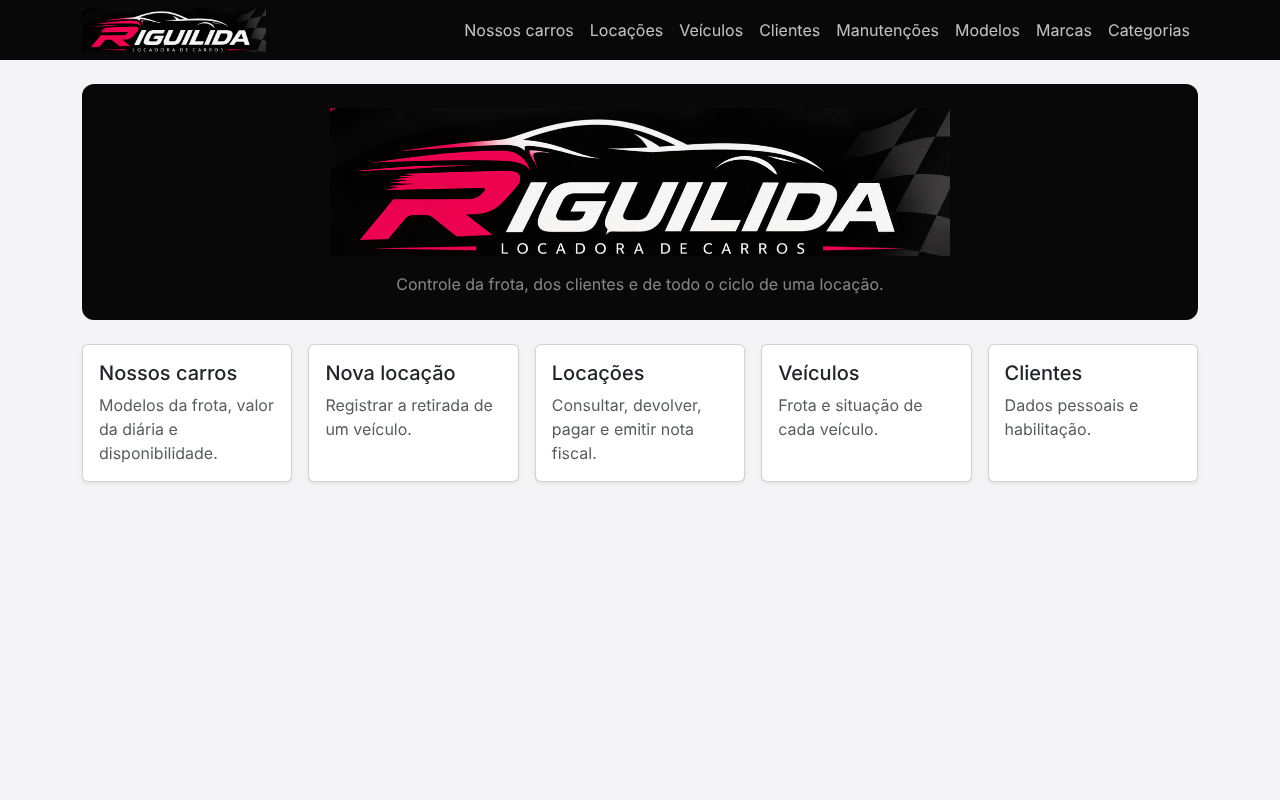
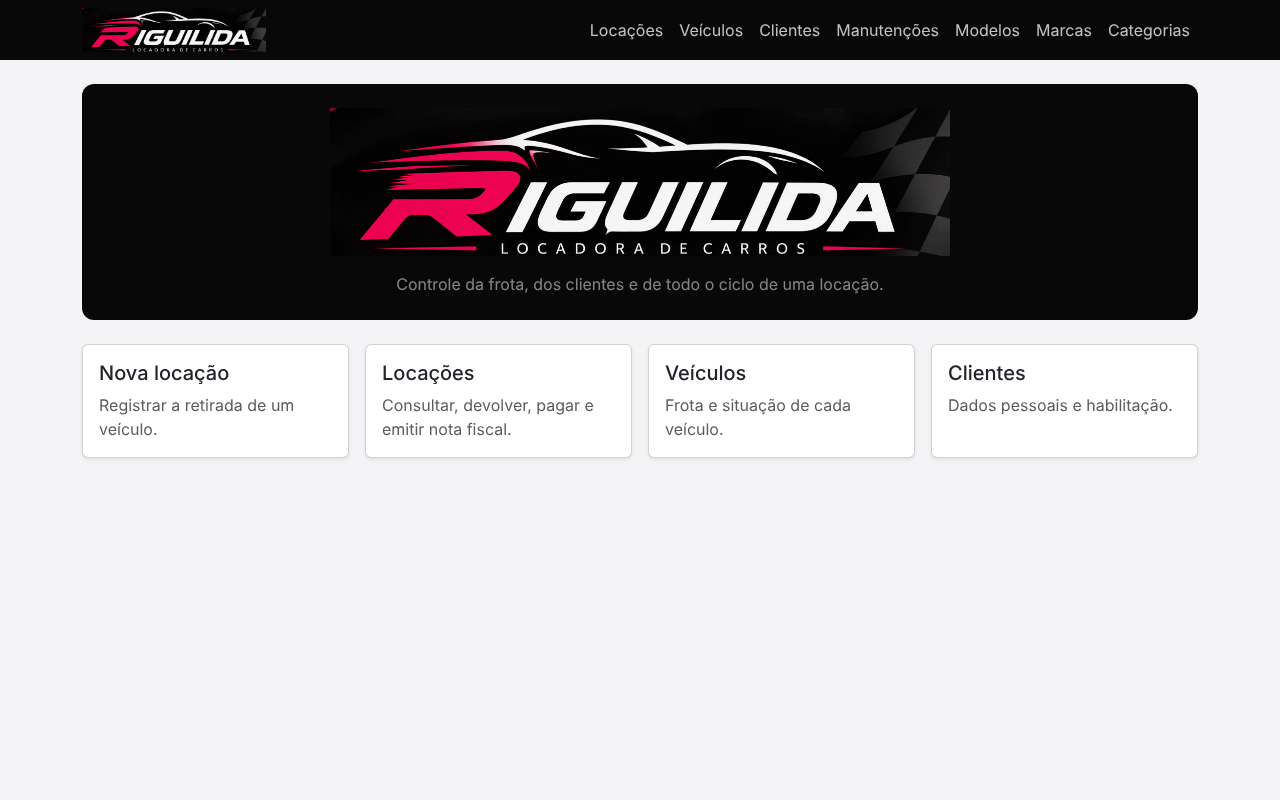
juntando nossos carros dentro de veículos

diff --git a/src/pages/locacoes/LocacaoForm.tsx b/src/pages/locacoes/LocacaoForm.tsx
@@ -14,7 +14,7 @@ import type { Manutencao } from "../../models/Manutencao";
 import type { Modelo } from "../../models/Modelo";
 import { calcularSituacaoVeiculo, descreverVeiculo, type Veiculo } from "../../models/Veiculo";
 import { niveisCombustivel, type NivelCombustivel } from "../../models/Vistoria";
-import { dataHoje, formatarMoeda, mensagemDeErro, somarDias } from "../../models/formatadores";
+import { dataHoje, formatarMoeda, mensagemDeErro } from "../../models/formatadores";
 import { categoriaService } from "../../service/categoriaService";
 import { clienteService } from "../../service/clienteService";
 import { contratoService } from "../../service/contratoService";
@@ -28,14 +28,13 @@ type ErrosLocacao = Partial<Record<keyof Locacao, string>>;
 
 export const LocacaoForm = () => {
   const navigate = useNavigate();
-  // Modelo e diárias escolhidos na tela "Nossos carros" (opcionais)
+  // Veículo escolhido pelo botão "Alugar" na tela de veículos (opcional)
   const [parametros] = useSearchParams();
-  const modeloEscolhido = parametros.get("modelo") ?? "";
-  const diariasEscolhidas = Number(parametros.get("diarias") ?? 0);
+  const veiculoEscolhido = parametros.get("veiculo") ?? "";
   const [locacao, setLocacao] = useState<Locacao>({
     ...locacaoInicial,
     dataRetirada: dataHoje(),
-    dataDevolucaoPrevista: diariasEscolhidas > 0 ? somarDias(dataHoje(), diariasEscolhidas) : "",
+    veiculoId: veiculoEscolhido,
   });
   const [nivelCombustivel, setNivelCombustivel] = useState<NivelCombustivel>("CHEIO");
   const [observacoes, setObservacoes] = useState("");
@@ -61,6 +60,8 @@ export const LocacaoForm = () => {
       .then(([listaClientes, listaVeiculos, listaModelos, listaCategorias, listaLocacoes, listaManutencoes]) => {
         setClientes(listaClientes);
         setVeiculos(listaVeiculos);
+        const veiculo = listaVeiculos.find((item) => item.id === veiculoEscolhido);
+        if (veiculo) setLocacao((atual) => ({ ...atual, kmRetirada: veiculo.kmRodado }));
         setModelos(listaModelos);
         setCategorias(listaCategorias);
         setLocacoes(listaLocacoes);
@@ -71,11 +72,8 @@ export const LocacaoForm = () => {
 
   const hoje = dataHoje();
   const veiculosDisponiveis = veiculos.filter(
-    (veiculo) =>
-      calcularSituacaoVeiculo(veiculo.id ?? "", locacoes, manutencoes, hoje) === "DISPONIVEL" &&
-      (!modeloEscolhido || veiculo.modeloId === modeloEscolhido),
+    (veiculo) => calcularSituacaoVeiculo(veiculo.id ?? "", locacoes, manutencoes, hoje) === "DISPONIVEL",
   );
-  const nomeModeloEscolhido = modelos.find((modelo) => modelo.id === modeloEscolhido)?.nome;
 
   const nomeModelo = (veiculo: Veiculo): string | undefined =>
     modelos.find((modelo) => modelo.id === veiculo.modeloId)?.nome;
@@ -174,14 +172,6 @@ export const LocacaoForm = () => {
     <div className="container" style={{ maxWidth: 900 }}>
       <h1 className="h3 mb-3">Nova locação</h1>
       <Alert type="danger" message={erro} onClose={() => setErro("")} />
-      {nomeModeloEscolhido && (
-        <div className="alert alert-light border d-flex justify-content-between align-items-center">
-          <span>
-            Mostrando apenas veículos do modelo <strong>{nomeModeloEscolhido}</strong>.
-          </span>
-          <Button label="Ver todos" variant="outline-secondary" size="sm" onClick={() => navigate("/locacoes/nova")} />
-        </div>
-      )}
 
       <form onSubmit={salvar} noValidate>
         <Card title="Dados da locação">

diff --git a/src/pages/veiculos/VeiculoList.tsx b/src/pages/veiculos/VeiculoList.tsx
@@ -14,7 +14,7 @@ import {
   type SituacaoVeiculo,
   type Veiculo,
 } from "../../models/Veiculo";
-import { dataHoje, mensagemDeErro } from "../../models/formatadores";
+import { dataHoje, formatarMoeda, mensagemDeErro } from "../../models/formatadores";
 import { categoriaService } from "../../service/categoriaService";
 import { locacaoService } from "../../service/locacaoService";
 import { manutencaoService } from "../../service/manutencaoService";
@@ -98,7 +98,7 @@ export const VeiculoList = () => {
       <div className="d-flex justify-content-between align-items-center mb-3">
         <div>
           <h1 className="h3 mb-1">Veículos</h1>
-          <p className="text-muted mb-0">Cada unidade da frota, com placa, quilometragem e situação.</p>
+          <p className="text-muted mb-0">A frota da Riguilida: diária, situação de cada carro e atalho para alugar.</p>
         </div>
         <Button label="Novo veículo" onClick={() => navigate("/veiculos/novo")} />
       </div>
@@ -124,10 +124,20 @@ export const VeiculoList = () => {
                     <span className={`badge ${corSituacao[situacao]}`}>{situacaoVeiculoLabel[situacao]}</span>
                   </div>
 
-                  <h2 className="h4 nome-carro mb-0">{modelo?.nome ?? "-"}</h2>
-                  <p className="text-muted mb-3">
-                    {marca?.nome} · {veiculo.anoFabricacao}
-                  </p>
+                  <div className="d-flex justify-content-between align-items-start">
+                    <div>
+                      <h2 className="h4 nome-carro mb-0">{modelo?.nome ?? "-"}</h2>
+                      <p className="text-muted mb-3">
+                        {marca?.nome} · {veiculo.anoFabricacao}
+                      </p>
+                    </div>
+                    {categoria && (
+                      <div className="text-end">
+                        <strong className="diaria-riguilida">{formatarMoeda(categoria.valorLocacao)}</strong>
+                        <small className="text-muted d-block">por dia</small>
+                      </div>
+                    )}
+                  </div>
 
                   <div className="d-flex justify-content-between border-top pt-3 mt-auto mb-3">
                     <div>
@@ -142,6 +152,14 @@ export const VeiculoList = () => {
                       <small className="text-muted d-block">Km rodado</small>
                       <strong>{veiculo.kmRodado.toLocaleString("pt-BR")}</strong>
                     </div>
+                  </div>
+
+                  <div className="d-grid mb-2">
+                    <Button
+                      label={situacao === "DISPONIVEL" ? "Alugar" : situacaoVeiculoLabel[situacao]}
+                      disabled={situacao !== "DISPONIVEL"}
+                      onClick={() => navigate(`/locacoes/nova?veiculo=${veiculo.id}`)}
+                    />
                   </div>
 
                   <div className="d-flex gap-2">

diff --git a/src/pages/Home.tsx b/src/pages/Home.tsx
@@ -1,7 +1,6 @@
 import { Link } from "react-router-dom";
 
 const atalhos = [
-  { to: "/carros", titulo: "Nossos carros", texto: "Modelos da frota, valor da diária e disponibilidade." },
   { to: "/locacoes/nova", titulo: "Nova locação", texto: "Registrar a retirada de um veículo." },
   { to: "/locacoes", titulo: "Locações", texto: "Consultar, devolver, pagar e emitir nota fiscal." },
   { to: "/veiculos", titulo: "Veículos", texto: "Frota e situação de cada veículo." },
@@ -17,7 +16,7 @@ export const Home = () => {
       </div>
       <div className="row g-3">
         {atalhos.map((atalho) => (
-          <div className="col-12 col-sm-6 col-lg" key={atalho.to}>
+          <div className="col-12 col-sm-6 col-lg-3" key={atalho.to}>
             <Link to={atalho.to} className="card h-100 shadow-sm text-decoration-none text-reset atalho-riguilida">
               <div className="card-body">
                 <h2 className="h5">{atalho.titulo}</h2>

diff --git a/src/index.css b/src/index.css
@@ -83,14 +83,10 @@ body {
   border-color: var(--rg-rosa);
 }
 
-/* Tela "Nossos carros": um card por modelo */
+/* Cards de veículos e modelos */
 .carro-riguilida {
   border: 1px solid #e3e3e6;
   border-top: 4px solid var(--rg-preto);
-}
-
-.carro-riguilida.carro-destaque {
-  border-top-color: var(--rg-rosa);
 }
 
 .carro-riguilida .nome-carro {
@@ -106,20 +102,6 @@ body {
   font-size: 0.8rem;
 }
 
-.etiqueta-destaque {
-  background-color: var(--rg-rosa);
-  color: #ffffff;
-  border-radius: 2rem;
-  padding: 0.15rem 0.7rem;
-  font-size: 0.8rem;
-}
-
-.carro-riguilida .diaria {
-  font-size: 1.6rem;
-  font-weight: 700;
-  color: var(--rg-preto);
-}
-
 .placa-riguilida {
   display: inline-block;
   border: 2px solid var(--rg-preto);
@@ -127,4 +109,9 @@ body {
   padding: 0 0.4rem;
   font-weight: 700;
   letter-spacing: 0.05em;
+}
+
+.diaria-riguilida {
+  font-size: 1.25rem;
+  color: var(--rg-preto);
 }

diff --git a/src/App.tsx b/src/App.tsx
@@ -1,7 +1,6 @@
 import { Route, Routes } from "react-router-dom";
 import { Navbar } from "./components/Navbar";
 import { Home } from "./pages/Home";
-import { CarroList } from "./pages/carros/CarroList";
 import { ClienteForm } from "./pages/clientes/ClienteForm";
 import { ClienteList } from "./pages/clientes/ClienteList";
 import { DevolucaoForm } from "./pages/locacoes/DevolucaoForm";
@@ -26,7 +25,6 @@ function App() {
       <main className="pb-5">
         <Routes>
           <Route path="/" element={<Home />} />
-          <Route path="/carros" element={<CarroList />} />
           <Route path="/locacoes" element={<LocacaoList />} />
           <Route path="/locacoes/nova" element={<LocacaoForm />} />
           <Route path="/locacoes/:id" element={<LocacaoDetalhe />} />

diff --git a/src/models/formatadores.ts b/src/models/formatadores.ts
@@ -17,15 +17,6 @@ export function dataHoje(): string {
   return `${hoje.getFullYear()}-${mes}-${dia}`;
 }
 
-/** Soma dias a uma data aaaa-mm-dd e devolve no mesmo formato. */
-export function somarDias(data: string, dias: number): string {
-  const [ano, mes, dia] = data.split("-").map(Number);
-  const resultado = new Date(ano, mes - 1, dia + dias);
-  const novoMes = String(resultado.getMonth() + 1).padStart(2, "0");
-  const novoDia = String(resultado.getDate()).padStart(2, "0");
-  return `${resultado.getFullYear()}-${novoMes}-${novoDia}`;
-}
-
 export function mensagemDeErro(erro: unknown): string {
   if (erro instanceof Error) return `Não foi possível concluir a operação: ${erro.message}`;
   return "Não foi possível concluir a operação.";

diff --git a/src/components/Navbar.tsx b/src/components/Navbar.tsx
@@ -1,7 +1,6 @@
 import { Link, NavLink } from "react-router-dom";
 
 const links = [
-  { to: "/carros", label: "Nossos carros" },
   { to: "/locacoes", label: "Locações" },
   { to: "/veiculos", label: "Veículos" },
   { to: "/clientes", label: "Clientes" },

diff --git a/README.md b/README.md
@@ -42,7 +42,7 @@ O arquivo `db.json` já vem com dados de exemplo (marcas, categorias, modelos, v
 - Histórico de manutenções por veículo (botão **Manutenções** na lista de veículos).
 
 **Processo de locação**
-- Tela **Nossos carros** com um card para cada modelo: categoria, marca e ano, unidades disponíveis, valor da diária e total pela quantidade de diárias escolhida, além da etiqueta "Mais alugado" no modelo com mais locações. O botão **Alugar** abre a nova locação já filtrada pelo modelo e com a devolução prevista preenchida; **Ver unidades** mostra placa, cor, km e situação de cada veículo.
+- Veículos exibidos em cards com categoria, diária, situação, placa, cor e km. Nos carros disponíveis, o botão **Alugar** abre a nova locação com o veículo já selecionado.
 - Registro da locação escolhendo o cliente, um veículo disponível e as datas de retirada e devolução prevista.
 - Cálculo automático do valor previsto: nº de diárias × valor da diária da categoria.
 - Contrato gerado automaticamente, com número único e data de emissão.
@@ -89,14 +89,11 @@ locadora-veiculos/
 ### Início
 ![Início](prints/01-inicio.png)
 
-### Nossos carros
-![Nossos carros](prints/11-nossos-carros.png)
-
 ### Veículos e situação de cada um
 ![Veículos](prints/02-veiculos.png)
 
 ### Modelos
-![Modelos](prints/12-modelos.png)
+![Modelos](prints/11-modelos.png)
 
 ### Locações com filtros
 ![Locações](prints/03-locacoes.png)
